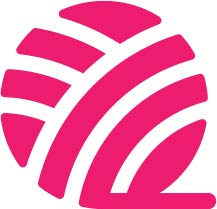
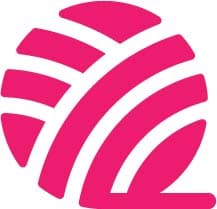
resized images and then adjsuted them in the code

diff --git a/script.js b/script.js
@@ -6,7 +6,7 @@ const products = [
     name: "Rose Cardigan",
     category: "Wearable, crochet, rose, Loop to Loop",
     price: "$130 (Price adjusted for size)",
-    image: "images/bluepinkrosesweater.jpeg",
+    image: "images/bluepinkrosesweater.jpg",
     description:
       "This is a beautiful cardigan that showcases roses all over the front and back. Made with cotton yarn, it has a gorgeous and clean look. This is the perfect addition to your wardrobe especially if you love flowers.",
   },
@@ -15,35 +15,35 @@ const products = [
     name: "Cup Cozy",
     category: "Home, Cup, Cozy, Winter, Loop to Loop, crochet",
     price: "$5",
-    image: "images/greencupcozy.jpeg",
+    image: "images/greencupcozy.jpg",
   },
   {
     id: 3,
     name: "Large Tote Bag",
     category: "Bag, tote, brown, Loop to Loop, crochet",
     price: "$45",
-    image: "images/browncrochettote.jpeg",
+    image: "images/browncrochettote.jpg",
   },
   {
     id: 4,
     name: "3pc Vase & Trinket tray Set",
     category: "Ceramic, Eco Resin, Home, Brown, Loop to Loop",
     price: "$30",
-    image: "images/brownecoresin.jpeg",
+    image: "images/brownecoresin.jpg",
   },
   {
     id: 5,
     name: "Moon Keychain",
     category: "Keychain, crochet,  Loop to Loop, moon, yellow, small",
     price: "$5",
-    image: "images/moonkeychain.jpeg",
+    image: "images/moonkeychain.jpg",
   },
   {
     id: 6,
     name: "Rose Bouquet Keychain",
     category: "Keychain, Loop to Loop, rose, flower, medium, crochet",
     price: "$10",
-    image: "images/rosebouquetkeychain.jpeg",
+    image: "images/rosebouquetkeychain.jpg",
   },
   //Stardrip Couture Products
   {
@@ -98,7 +98,7 @@ const products = [
     name: "Spice Jar Labels (set of 20)",
     category: "Stationary, Roo's Treasure Shop, labels, spice jars, ",
     price: "$20",
-    image: "images/spicejar.png",
+    image: "images/spicejar.jpg",
     description:
       "Using Permanent Vinyl, these spice jar labels are the perfect way to customize your spice jars... but with a spin! If you are bilingual, you can add the name of the spice in English as well as any language of your choice!",
   },
@@ -116,7 +116,7 @@ const products = [
     name: "Booked & Busy Bookmart Set (3pc)",
     category: "Stationary, Roo's Treasure Shop, Bookmark, book",
     price: "$15",
-    image: "images/bookmarks.png",
+    image: "images/bookmarks.jpg",
     description:
       "These holographic bookmarks are the perfect companion for every book lover. Featuring a soft pastel book stack design and a dreamy iridescent finish, they catch the light beautifully while keeping your place in style.",
   },
@@ -125,7 +125,7 @@ const products = [
     name: "All I Need is Matcha Magnet",
     category: "Stationary, Roo's Treasure Shop, magnet, matcha, pink",
     price: "$5",
-    image: "images/matcha.png",
+    image: "images/matcha.jpg",
     description:
       "Celebrate your love for matcha with this adorable “All I Need Is Matcha” design featuring a pastel matcha drink, sweet strawberries, and a soft aesthetic vibe. Perfect for decorating your laptop, water bottle, Kindle, planner, or fridge!",
   },
@@ -134,7 +134,7 @@ const products = [
     name: "Bismillah Floral Can Glass Set",
     category: "Stationary, Roo's Treasure Shop, cup, glass, muslim",
     price: "$19",
-    image: "images/jarcup.png",
+    image: "images/jarcup.jpg",
     description:
       "Start every sip with intention. This beautifully designed can glass features the word Bismillah surrounded by delicate floral details, making it both a functional piece and a meaningful addition to your daily routine.",
   },
@@ -145,7 +145,7 @@ const products = [
     name: "Bedazzled Cat Keychain",
     category: "Wandering Maker, keychain, bedazzled, pink, purple",
     price: "$6",
-    image: "images/catkeychains.jpeg",
+    image: "images/catkeychains.jpg",
     description:
       "Acrylic Keychain with different colored background. With silver, gold, and other color diamonds that are in the shape of a cat doing different position.",
   },
@@ -154,7 +154,7 @@ const products = [
     name: "Rose Pin",
     category: "Wandering Maker, rose, pin, red, flower",
     price: "$3 each",
-    image: "images/rosepin.jpeg",
+    image: "images/rosepin.jpg",
     description: "Red rose pin that is covered in gold glitter.",
   },
   {
@@ -162,7 +162,7 @@ const products = [
     name: "Fruit Earrings Set",
     category: "Wandering Maker, earring, jewelry, fruit, tops",
     price: "$10",
-    image: "images/fruitset.jpeg",
+    image: "images/fruitset.jpg",
     description:
       "Fruit earring tops that are Apple, Banana, Strawberry, Cherry, and Pineapple.",
   },
@@ -171,7 +171,7 @@ const products = [
     name: "Pressed Flower Magnet Set",
     category: "Wandering Maker, magent, flower, frame, vintage",
     price: "$5",
-    image: "images/frames.jpeg",
+    image: "images/frames.jpg",
     description:
       "Pressed Flower Vintage Frame magnets with different types of colored frame, such as gold, silver, bronze, and copper. ",
   },

diff --git a/about.html b/about.html
@@ -38,20 +38,20 @@
     </div>
 <main class="about-content">
   <h2 class="about-title">Where did This & Sis come from?</h2>
-  <img src="images/sispic.jpeg" alt="Sister Picture" class="sister-pic" width="300">
+  <img src="images/sispic.jpg" alt="Sister Picture" class="sister-pic" width="300">
   <p>This & Sis sprouted from the dream of a sister who wanted to do something big and amazing with her sisters, who were just as crafty and even more so amazing. Sanya, a crocheter/eco-resiner and the owner of Loop to Loop, wanted to make a storefront that would gather the expertise of all of her sisters in one place for the world to see. She believed that when making this dream store, she would be able to showcase the beauty of different types of handmade items, as well as the talents of her sisters.</p>
 <p>Click on the stores below to see the amazing things these sisters are creating!</p>
 
 
   <section class="store-names">
     <div class="looptoloop">
-      <img src="images/looplogo.png" alt="Loop to Loop Logo" width="300" />
+      <img src="images/looplogo.jpg" alt="Loop to Loop Logo" width="300" />
       <h3><a href="looptoloop.html">Loop to Loop</a></h3>
     </div>
 
     <div class="roostreasures">
       <img
-        src="images/roologo.png"
+        src="images/roologo.jpg"
         alt="Roo's Treasure Shop Logo"
         width="300"
       />
@@ -60,7 +60,7 @@
 
     <div class="stardrip">
       <img
-        src="images/stardrip.jpeg"
+        src="images/stardrip.jpg"
         alt="StarDrip Couture Logo"
         width="300"
       />

diff --git a/index.html b/index.html
@@ -97,13 +97,13 @@
       <!-- Store Names-->
       <section class="store-names">
         <div class="looptoloop">
-          <img src="images/looplogo.png" alt="Loop to Loop Logo" width="300" />
+          <img src="images/looplogo.jpg" alt="Loop to Loop Logo" width="300" />
           <h3><a href="looptoloop.html">Loop to Loop</a></h3>
         </div>
 
         <div class="roostreasures">
           <img
-            src="images/roologo.png"
+            src="images/roologo.jpg"
             alt="Roo's Treasure Shop Logo"
             width="300"
           />
@@ -112,7 +112,7 @@
 
         <div class="stardrip">
           <img
-            src="images/stardrip.jpeg"
+            src="images/stardrip.jpg"
             alt="StarDrip Couture Logo"
             width="300"
           />

diff --git a/looptoloop.html b/looptoloop.html
@@ -83,7 +83,7 @@
         <a href="stardrip.html">Stardrip Couture</a>
         <main>
           <div class="logo-page">
-              <img src="images/looplogo.png" alt="Loop to Loop Logo" width="300" class="logo-image" />
+              <img src="images/looplogo.jpg" alt="Loop to Loop Logo" width="300" class="logo-image" />
             <input class="logo-page-search" id="searchInput" placeholder="Search products..." />
           </div>   
             <section id="featured">

diff --git a/stardrip.html b/stardrip.html
@@ -38,7 +38,7 @@
     </div>
     <main>
       <div class="logo-page">
-          <img src="images/stardrip.jpeg" alt="Stardrip Couture Logo" width="300" class="logo-image" />
+          <img src="images/stardrip.jpg" alt="Stardrip Couture Logo" width="300" class="logo-image" />
         <input class="logo-page-search" id="searchInput" placeholder="Search products..." />
       </div>   
         <section id="featured">

diff --git a/roostreasures.html b/roostreasures.html
@@ -39,7 +39,7 @@
 
     <main>
       <div class="logo-page">
-          <img src="images/roologo.png" alt="Roo's Treasure Shop Logo" width="250px" class="logo-image" />
+          <img src="images/roologo.jpg" alt="Roo's Treasure Shop Logo" width="250px" class="logo-image" />
         <input class="logo-page-search" id="searchInput" placeholder="Search products..." />
       </div>   
         <section id="featured">
